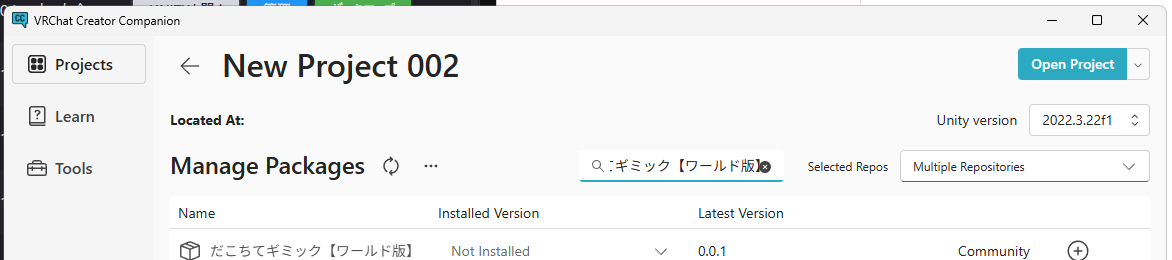
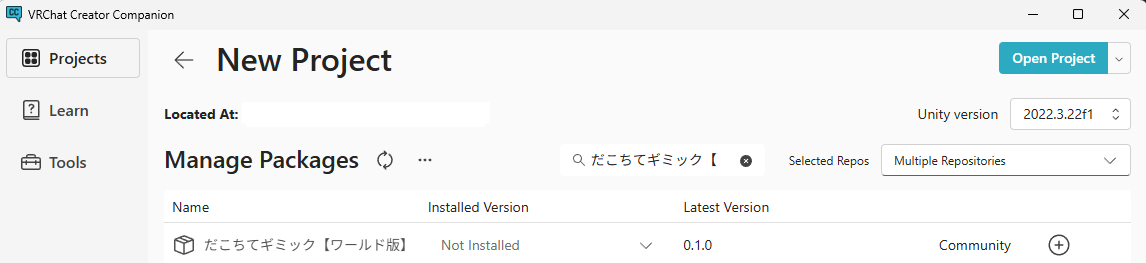
不具合・不明点のお問い合わせのページを分ける

diff --git a/docs/assets/css/custom.css b/docs/assets/css/custom.css
@@ -73,8 +73,15 @@
 .install-menu-shot.install-vcc-shot img{max-width:1172px}
 .install-vcc-shot a:focus-visible{outline:3px solid var(--rose);outline-offset:3px}
 
+/* Show the repository warning without the source image's inaccurate project annotation. */
+.install-repo-status{margin:1rem 0;padding:.8rem;border:1px solid var(--line);border-radius:10px;background:#fff}
+.install-repo-status summary{cursor:pointer;font-weight:700;line-height:1.6}
+.install-repo-status summary:focus-visible{outline:3px solid var(--rose);outline-offset:3px}
+.install-repo-status-window{aspect-ratio:969 / 325;overflow:hidden;border:1px solid var(--line);border-radius:10px;background:#fff}
+.install-repo-status-window img{max-width:none}
+@media(max-width:600px){.steps li{padding-right:.75rem;padding-left:2.7rem}.steps li:before{left:.6rem}.steps code{overflow-wrap:anywhere}}
+
 /* Contact guide: preserve the supplied screenshot at its native size. */
-.contact-section{margin-top:2rem;padding-top:1rem;border-top:1px solid var(--line)}
 .contact-guide{display:grid;grid-template-columns:minmax(0,1fr) minmax(0,322px);gap:1.5rem;align-items:start}
 .contact-shot{margin:1rem 0;max-width:322px}
 .contact-shot a{display:block;line-height:0}

diff --git a/docs/install.md b/docs/install.md
@@ -13,17 +13,64 @@ permalink: /install/
 
 追加・更新前にプロジェクトをバックアップしてください。Unity 2022.3のVRChat Worldsプロジェクトを使用します。必要なパッケージはWorlds SDK（3.10.5以上・4.0.0未満）、TextMesh Pro 3.0.6、uGUI 1.0.0です。
 
+## VCCでパッケージを追加する
+
+**配布リポジトリの登録はVCC全体で1回、パッケージの追加はワールドのプロジェクトごとに必要です。** すでにリポジトリを登録している方は手順2へ、対象プロジェクトにパッケージを追加済みの方は[Unityでの配置](#unity-setup)へ進んでください。
+
+<p class="step-hint">画面の表記はVCC・ブラウザーの言語やバージョンによって異なります。画像はクリックすると拡大できます（追加済みメッセージの画像を除く）。</p>
+
 <ol class="steps">
-  <li><strong>VCCでワールドのプロジェクトを選ぶ</strong><br>VRChat Creator Companion（VCC）を開き、ギミックを導入するワールドの <strong>Manage Project</strong> を選びます。<span class="step-hint">配布リポジトリをまだ登録していない場合は、先に<a href="https://aramaa-vr.github.io/vpm-repos/redirect.html">VCCへ登録</a>してください。</span></li>
-  <li><strong>「だこちてギミック【ワールド版】」を追加する</strong><br><strong>Manage Packages</strong> の検索欄に <strong>「だこちてギミック【ワールド版】」</strong> と入力します。検索結果に表示された同名のパッケージの<strong>右端の「＋」ボタン</strong>を押して追加してください。
+  <li><strong>配布リポジトリをVCCに登録する（初回のみ）</strong><br><a href="https://aramaa-vr.github.io/vpm-repos/redirect.html">VCCへ登録</a>を開き、ブラウザーで確認が出たら <strong>CreatorCompanion を開く</strong> を選びます。
+    <figure class="install-menu-shot install-vcc-shot">
+      <a href="{{ '/assets/img/vcc-add-repo.webp' | relative_url }}" target="_blank" rel="noopener noreferrer" aria-label="ブラウザーからVCCを開く確認画面を拡大表示">
+        <img src="{{ '/assets/img/vcc-add-repo.webp' | relative_url }}" alt="ブラウザーの確認画面。CreatorCompanion を開くボタンからVCCを起動する。" loading="lazy" decoding="async" width="1094" height="330">
+      </a>
+      <figcaption>「CreatorCompanion を開く」を選ぶと、VCCに移動します。</figcaption>
+    </figure>
+    <p>VCCの <strong>Add Repository</strong> で、配布元が <strong>あらまあ素敵なショップ</strong>、URLが <code>https://aramaa-vr.github.io/vpm-repos/vpm.json</code> であることを確認します。注意事項を読んで、<strong>I Understand, Add Repository</strong> を押してください。</p>
+    <figure class="install-menu-shot install-vcc-shot">
+      <a href="{{ '/assets/img/vcc-add-repository-confirm.webp' | relative_url }}" target="_blank" rel="noopener noreferrer" aria-label="VCCのリポジトリ登録確認画面を拡大表示">
+        <img src="{{ '/assets/img/vcc-add-repository-confirm.webp' | relative_url }}" alt="VCCのAdd Repository画面。あらまあ素敵なショップのURLと、Included Packagesにだこちてギミック【ワールド版】があることを確認し、I Understand, Add Repositoryを押す。" loading="lazy" decoding="async" width="1177" height="601">
+      </a>
+      <figcaption>ここでは配布元を登録します。ワールドのプロジェクトへの追加は手順3で行います。</figcaption>
+    </figure>
+    <details class="install-repo-status">
+      <summary>「You have already added this repository.」と表示された場合</summary>
+      <p><strong>配布リポジトリは登録済みです。</strong> 再登録は不要なので、入力欄の <strong>Cancel</strong> で閉じ、手順2へ進んでください。このメッセージだけでは、対象プロジェクトにパッケージが入っているかは分かりません。</p>
+      <figure class="install-menu-shot">
+        <div class="install-repo-status-window">
+          <img src="{{ '/assets/img/vcc-settings-repo-added-q75.webp' | relative_url }}" alt="VCCのリポジトリ登録欄に、You have already added this repository. You can't add it again. と表示されている。" loading="lazy" decoding="async" width="969" height="603">
+        </div>
+        <figcaption>「このリポジトリは追加済みで、再追加できません」という意味です。登録済みの配布元を削除し直す必要はありません。</figcaption>
+      </figure>
+    </details>
+    <p class="step-hint">VCCが開かない場合は、VCCの <strong>Settings → Packages → Add Repository</strong> に上記URLを貼り付け、<strong>Add</strong> を押して登録できます。</p>
+  </li>
+  <li><strong>配布リポジトリにチェックが入っていることを確認する</strong><br>VCCの <strong>Settings → Packages → Installed Repositories</strong> で、<strong>あらまあ素敵なショップ</strong> にチェックを入れます。登録済みでも、チェックが外れているとパッケージの一覧に表示されません。
+    <figure class="install-menu-shot install-vcc-shot">
+      <a href="{{ '/assets/img/vcc-repository-enabled.webp' | relative_url }}" target="_blank" rel="noopener noreferrer" aria-label="VCCの配布リポジトリのチェック状態を拡大表示">
+        <img src="{{ '/assets/img/vcc-repository-enabled.webp' | relative_url }}" alt="VCCのInstalled Repositories一覧。あらまあ素敵なショップの左側にチェックが入っている。" loading="lazy" decoding="async" width="1174" height="602">
+      </a>
+      <figcaption>「あらまあ素敵なショップ」の左側にチェックがあれば、配布元の準備は完了です。</figcaption>
+    </figure>
+  </li>
+  <li><strong>ワールドのプロジェクトを選び、パッケージを追加する</strong><br>VCCの <strong>Projects</strong> に戻り、導入するワールドの <strong>Manage Project</strong> を開きます。<strong>Manage Packages</strong> の検索欄に <strong>「だこちてギミック【ワールド版】」</strong> と入力し、同名のパッケージを探してください。<strong>Installed Version</strong> が <strong>Not Installed</strong> の場合は、<strong>右端の「＋」ボタン</strong>を押して追加します。追加確認が表示されたら、内容を確認して進めてください。
     <figure class="install-menu-shot install-vcc-shot">
       <a href="{{ '/assets/img/vcc-manage-packages.webp' | relative_url }}" target="_blank" rel="noopener noreferrer" aria-label="VCCの検索と追加ボタンの画像を拡大表示">
-        <img src="{{ '/assets/img/vcc-manage-packages.webp' | relative_url }}" alt="VCCのManage Packages画面。検索欄にだこちてギミック【ワールド版】を入力し、検索結果の右端にある＋ボタンを押して追加する。" loading="lazy" decoding="async" width="1172" height="260">
+        <img src="{{ '/assets/img/vcc-manage-packages.webp' | relative_url }}" alt="VCCのManage Packages画面。だこちてギミック【ワールド版】のInstalled VersionはNot Installedと表示され、右端に追加用の＋ボタンがある。" loading="lazy" decoding="async" width="1146" height="263">
       </a>
-      <figcaption>パッケージ名で検索し、右端の「＋」から追加します。画面の表記はVCCの言語・バージョンによって異なります（画像をクリックすると拡大できます）。</figcaption>
+      <figcaption>「Not Installed」は、このプロジェクトには未導入という意味です。右端の「＋」から追加します。画像はクリックすると拡大できます。</figcaption>
     </figure>
-    <span class="step-hint">見つからない場合は、VCCへの配布リポジトリ登録と「Selected Repos」の選択を確認してください。</span>
+    <p><strong>すでにインストール済みの場合：</strong> <strong>Installed Version</strong> にバージョン番号が表示されていれば、そのプロジェクトへの追加は完了しています。Unityでの配置へ進んでください。更新したい場合は、先に<a href="#package-update">更新・削除するとき</a>を確認します。</p>
+    <span class="step-hint">見つからない場合は、手順2のチェックと、Manage Packagesの <strong>Selected Repos</strong> に配布元が含まれているかを確認してください。別のプロジェクトに導入済みでも、今回のプロジェクトには追加が必要です。</span>
   </li>
+</ol>
+
+<h2 id="unity-setup">Unityでギミックを配置する</h2>
+
+すでにシーンにギミックを配置している場合は、本体を追加せず、既存の配置と動作を確認してください。更新する場合は[更新・削除するとき](#package-update)へ進みます。
+
+<ol class="steps">
   <li><strong>Unityにギミックを配置する</strong><br>追加が完了したらVCCの <strong>Open Project</strong> からUnityを開きます。<br>Unity上部の <code>Tools → Aramaa → だこちてギミック【ワールド版】</code> を開き、目的のモードの「〜モードをワールドに配置」を選びます。<strong>配置するモードは1つだけ</strong>です。
   </li>
   <li><strong>「TMP Importer」が表示された場合は初期設定する</strong><br>これはエラーではありません。上段の <strong>Import TMP Essentials</strong> をクリックし、読み込みが終わったらウィンドウを閉じてください。下段の <strong>Import TMP Examples &amp; Extras</strong> は、このギミックを使うためには必要ありません。
@@ -74,9 +121,9 @@ permalink: /install/
 
 共通ベースの `PlayerCarryAndThrow_Base.prefab` やUI部品を、導入用の本体として直接配置しないでください。
 
-## 更新・削除するとき
+<h2 id="package-update">更新・削除するとき</h2>
 
-更新前に、配置位置・Inspectorで変更した設定・外部スクリプトからの参照を控え、プロジェクトをバックアップします。VCCで更新した後は、ワールド内の表示と操作を再確認してください。
+更新前に、配置位置・Inspectorで変更した設定・外部スクリプトからの参照を控え、プロジェクトをバックアップします。VCCで対象プロジェクトの **Manage Project → Manage Packages** を開き、本パッケージに更新が表示されている場合は更新操作を行います。更新がなければ、そのまま使えます。更新後は、ワールド内の表示と操作を再確認してください。
 
 旧構造のPrefabから更新する場合は、参照や独自設定が自動で引き継がれないことがあります。配置メニューは、シーンに本体があると新しい本体を追加できません。バックアップと設定・参照の記録を済ませてから、次の順に移行してください。
 
@@ -89,6 +136,4 @@ permalink: /install/
 
 同梱フォントは現行UI向けです。独自の説明文やプレイヤー名を追加する場合は、必要な文字を含むフォントを用意してください。同梱音源を使う場合は、[第三者素材の通知とクレジット](https://github.com/aramaa-vr/player-carry-and-throw/blob/master/Third%20Party%20Notices.md)も確認してください。
 
-{% include contact.html %}
-
-<div class="action-row"><a class="primary" href="{{ '/play/' | relative_url }}">遊び方へ進む</a></div>
+<div class="action-row" id="contact"><a class="primary" href="{{ '/play/' | relative_url }}">遊び方へ進む</a><a href="{{ '/contact/' | relative_url }}">不具合・不明点のお問い合わせ</a></div>

diff --git a/README.md b/README.md
@@ -1,13 +1,17 @@
 # だこちてギミック【ワールド版】説明サイト
 
-GitHub Pages / Jekyll（just-the-docs）で公開する説明ページです。閲覧者向けの内容は「トップ」「ワールドへの導入」「遊び方」の3ページのみです。「遊び方」には各モードのUI画像3枚を掲載しています。
+GitHub Pages / Jekyll（just-the-docs）で公開する説明ページです。閲覧者向けの内容は「トップ」「ワールドへの導入」「遊び方」「不具合・不明点のお問い合わせ」の4ページです。「遊び方」には各モードのUI画像3枚を掲載しています。
 
-導入・遊び方の各ページにはDiscordの問い合わせ案内を掲載し、トップからも移動できます。案内の共通部分は `docs/_includes/contact.html` で管理します。
+Discordの問い合わせ方法と報告時に添える情報・案内画像は、独立した `docs/contact.md`（`/contact/`）にまとめています。トップ上部のボタン、導入・遊び方の各ページ、ナビゲーションから移動できます。従来の導入・遊び方ページ内の `#contact` には、新しいページへのリンクを残しています。
 
 ## 説明ページに使う画像
 
+- `docs/assets/img/vcc-manage-packages.webp` — VCCでパッケージを検索し、右端の「＋」で追加する画面（ユーザー提供の新しいPNGを可逆WebPに変換）
 - `docs/assets/img/manual-title*.webp` — トップのタイトル画像（ユーザー提供画像）。幅640・960・1280・1672pxのWebPを用意し、画面幅と画面の精細さに合わせて読み分けます。縦横比を保って全体を表示し、読み込み領域をあらかじめ確保します。
-- `docs/assets/img/vcc-manage-packages.webp` — VCCでパッケージ名を検索し、右端の「＋」で追加する画面
+- `docs/assets/img/vcc-add-repo.webp` — ブラウザーからVCCを開く確認画面（ユーザー提供画像）
+- `docs/assets/img/vcc-add-repository-confirm.webp` — 配布リポジトリ登録の確認画面（ユーザー提供PNGを可逆WebPに変換）
+- `docs/assets/img/vcc-settings-repo-added-q75.webp` — リポジトリ追加済みのメッセージ（ユーザー提供画像）。ページ上では警告までを表示し、元画像の不正確な「すでにプロジェクトに入っています」という注記は表示しません。
+- `docs/assets/img/vcc-repository-enabled.webp` — 配布リポジトリのチェック状態（ユーザー提供PNGを可逆WebPに変換）
 - `docs/assets/img/discord-contact.webp` — Discordの問い合わせチャンネル（ユーザー提供画像）
 - `docs/assets/img/tmp-importer.webp` — TMP Essentialsの導入
 - `docs/assets/img/mode-dako.webp` — だこちてモードの遊び方

diff --git a/docs/contact.md b/docs/contact.md
@@ -1,0 +1,38 @@
+---
+title: "不具合・不明点のお問い合わせ"
+description: "Discordでの問い合わせ方法と、不具合報告に添える情報"
+nav_order: 4
+permalink: /contact/
+---
+
+# 不具合・不明点のお問い合わせ
+
+導入や操作で分からないこと、不具合の報告は、Discord「あらまあ素敵なショップ」の問い合わせチャンネルへお寄せください。ワールドで遊ぶ方・ワールド制作者のどちらもご利用いただけます。
+
+<div class="action-row"><a class="primary" href="https://discord.gg/BJ3BpVnMna" target="_blank" rel="noopener noreferrer">Discordで問い合わせる（別タブ）</a></div>
+
+<div class="contact-guide">
+  <div>
+    <ol>
+      <li>上のリンクからDiscordサーバーに参加します。</li>
+      <li>チャンネル一覧の「交流・お問い合わせ」を開きます。</li>
+      <li>「📩┃問い合わせ┃」でご相談ください。</li>
+    </ol>
+    <p>分かる範囲で、次の情報を添えていただくと状況を確認しやすくなります。</p>
+    <ul>
+      <li>分からないこと、または起きた現象と期待した動作</li>
+      <li>現象が起きるまでの手順・使用しているモード</li>
+      <li>利用環境（PCのDesktop／PCVR／Questなど）</li>
+      <li>可能であれば、画面の画像や動画、表示されたエラー</li>
+    </ul>
+    <p>ワールド制作者の方は、使用中のパッケージ・Unity・Worlds SDKのバージョンも、分かる範囲でお知らせください。</p>
+  </div>
+  <figure class="contact-shot">
+    <a href="{{ '/assets/img/discord-contact.webp' | relative_url }}" target="_blank" rel="noopener noreferrer" aria-label="Discordの問い合わせチャンネルの画像を拡大表示">
+      <img src="{{ '/assets/img/discord-contact.webp' | relative_url }}" width="322" height="472" alt="Discordのチャンネル一覧。「交流・お問い合わせ」の中にある「問い合わせ」チャンネルを選ぶ。" loading="lazy" decoding="async">
+    </a>
+    <figcaption>「交流・お問い合わせ」内の問い合わせチャンネル（画像をクリックすると拡大できます）。</figcaption>
+  </figure>
+</div>
+
+<div class="action-row"><a href="{{ '/install/' | relative_url }}">ワールドへの導入方法</a><a href="{{ '/play/' | relative_url }}">遊び方を見る</a><a href="{{ '/' | relative_url }}">トップへ戻る</a></div>

diff --git a/docs/index.md b/docs/index.md
@@ -22,6 +22,7 @@ permalink: /
       <div class="action-row">
         <a class="primary" href="{{ '/install/' | relative_url }}">ワールドに導入する</a>
         <a href="{{ '/play/' | relative_url }}">遊び方を見る</a>
+        <a href="{{ '/contact/' | relative_url }}">不具合・不明点のお問い合わせ</a>
       </div>
   </div>
 </div>
@@ -50,10 +51,6 @@ permalink: /
 
 <div class="note"><strong>遊ぶときは相手の同意を大切に。</strong> 抱っこする・抱っこされる許可は、ワールド内の個人UIから変更できます。</div>
 
-<div class="action-row"><a href="{{ '/play/' | relative_url }}">操作方法を確認する</a></div>
-
 <p>制作：あらまあ ／ あらまあ素敵なショップ</p>
-
-<div class="action-row"><a href="{{ '/install/#contact' | relative_url }}">不具合・不明点のお問い合わせ</a></div>
 
 <p class="legal-links"><a href="https://github.com/aramaa-vr/player-carry-and-throw/blob/master/LICENSE.md">利用規約（ライセンス）</a></p>

diff --git a/docs/play.md b/docs/play.md
@@ -79,6 +79,4 @@ permalink: /play/
 
 <div class="note"><strong>遊ぶときは相手の同意を大切に。</strong> 許可スイッチだけでなく、その場での相手の意思も確認してください。</div>
 
-{% include contact.html %}
-
-<div class="action-row"><a href="{{ '/install/' | relative_url }}">ワールドへの導入方法</a><a href="{{ '/' | relative_url }}">トップへ戻る</a></div>
+<div class="action-row" id="contact"><a href="{{ '/install/' | relative_url }}">ワールドへの導入方法</a><a href="{{ '/contact/' | relative_url }}">不具合・不明点のお問い合わせ</a><a href="{{ '/' | relative_url }}">トップへ戻る</a></div>
